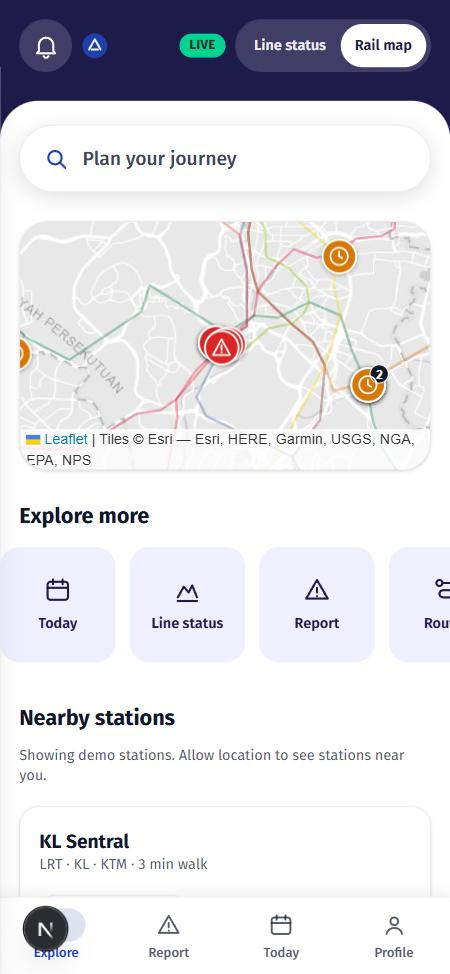
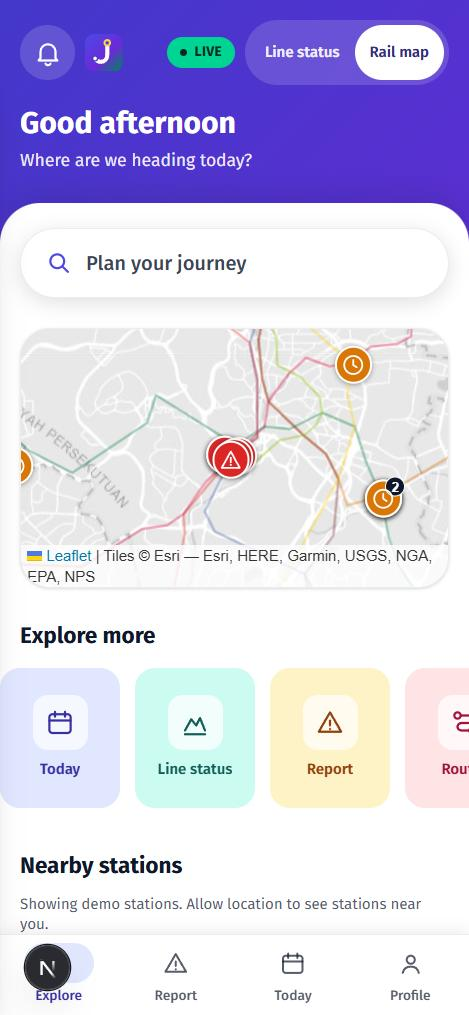
Refresh screenshots and docs for new visuals

diff --git a/docs/AFD.md b/docs/AFD.md
@@ -10,7 +10,7 @@
 
 Nav (`components/shell.tsx`): Today, My routes, Line status, Settings, About.
 
-Home on mobile (`components/home-dashboard.tsx`, screenshot in `docs/screenshots/home-mobile.jpg`): indigo header (alerts link, Live badge, Line status / Rail map toggle), "Plan your journey" bar, mini-map card (tap opens the full map; a back button returns), "Explore more" tiles, and nearby stations with per-line status. Nearby stations start as demo data and switch to geolocation once permitted; status comes from rider reports, with no invented ETAs. A fixed bottom tab bar (`components/bottom-tab-bar.tsx`: Explore, Report, Today, Profile) shows below md for signed-in users; `Shell` takes `band` (hides its own header and footer below md) and `tabBar` props for this.
+Home on mobile (`components/home-dashboard.tsx`, screenshot in `docs/screenshots/home-mobile.jpg`): indigo-to-violet gradient header with the JomKomute logo and a time-aware greeting (Selamat pagi / Good morning), alerts link, Live badge, Line status / Rail map toggle, "Plan your journey" bar, mini-map card (tap opens the full map; a back button returns), "Explore more" tiles (one pastel hue each), and nearby stations with per-line status. Nearby stations start as demo data and switch to geolocation once permitted; status comes from rider reports, with no invented ETAs. A fixed bottom tab bar (`components/bottom-tab-bar.tsx`: Explore, Report, Today, Profile) shows below md for signed-in users; `Shell` takes `band` (hides its own header and footer below md) and `tabBar` props for this.
 
 ## Flow 1 — Entry
 ```
@@ -67,4 +67,4 @@ Theme, accent colour, language (en/ms).
 ## Error handling
 `TODO: confirm` (no `error.tsx` found in `app/`). Toasts via `components/toast-provider.tsx`.
 
-Shared mobile layout (`components/app-shell.tsx`, `AppShell`): indigo header band (alerts link, brand, Live badge, optional right slot, Log in pill when signed out) plus a rounded white sheet overlapping it, wrapped around `Shell`. Used by Home, Today, Line status, My routes (and route detail, with a back link), Settings (with a Log out card on mobile), About and Pitch. About and Pitch use `width="reading"` (text column of about 65ch); other pages pick `sm`/`md`/`lg`/`xl`. Cards use the `app-card` utility. The tab bar never covers content: `Shell` pads `main` by the bar height plus the safe-area inset. No shell or tab bar on: the full-screen map and planner (edge-to-edge, back button), Login and Sign up, and the focused `/report` and `/new` views (tab bar hidden, Back / Close link kept). `/report` is a live-reports map browser, not a form. Mobile screenshots: `docs/screenshots/{home,today,line-status,routes,settings,about,pitch,new,report}-mobile.jpg`.
+Shared mobile layout (`components/app-shell.tsx`, `AppShell`): gradient header band (alerts link, JomKomute logo mark, Live badge, optional right slot, Log in pill when signed out) plus a rounded white sheet overlapping it, wrapped around `Shell`. Used by Home, Today, Line status, My routes (and route detail, with a back link), Settings (with a Log out card on mobile), About and Pitch. About and Pitch use `width="reading"` (text column of about 65ch); other pages pick `sm`/`md`/`lg`/`xl`. Cards use the `app-card` utility. The tab bar never covers content: `Shell` pads `main` by the bar height plus the safe-area inset. No shell or tab bar on: the full-screen map and planner (edge-to-edge, back button), Login and Sign up, and the focused `/report` and `/new` views (tab bar hidden, Back / Close link kept). `/report` is a live-reports map browser, not a form. Mobile screenshots: `docs/screenshots/{home,today,line-status,routes,settings,about,pitch,new,report}-mobile.jpg`, plus `-dark` and `-ms` (Malay) variants for home, today, line-status and settings, `login-mobile.jpg` and `home-desktop.jpg`. Colours are design tokens in `app/globals.css`, checked for WCAG AA by `node scripts/check-contrast.mjs`; the logo lives in `components/logo-mark.tsx` (also used for `app/icon.svg`, PWA icons and the OG image).
